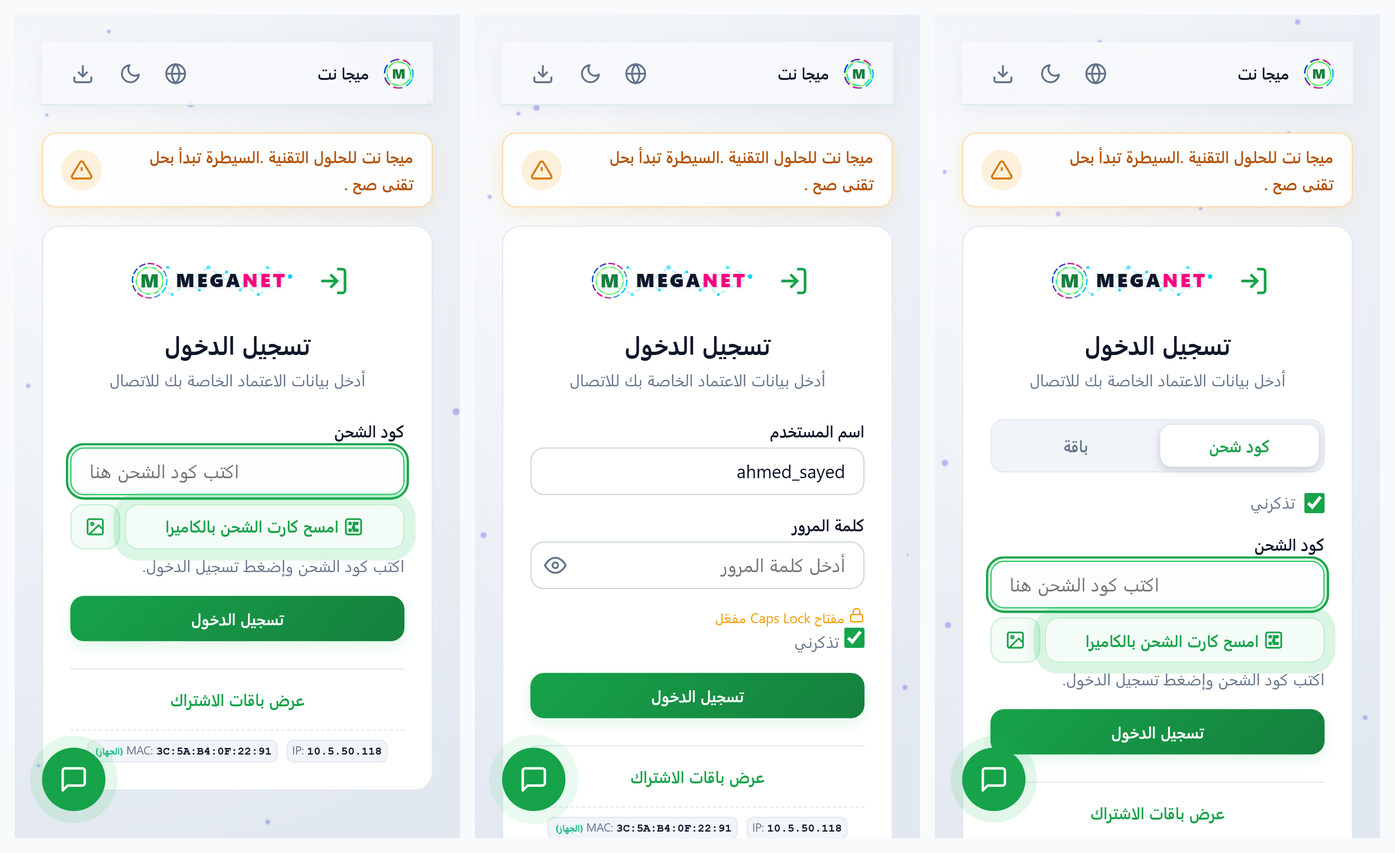
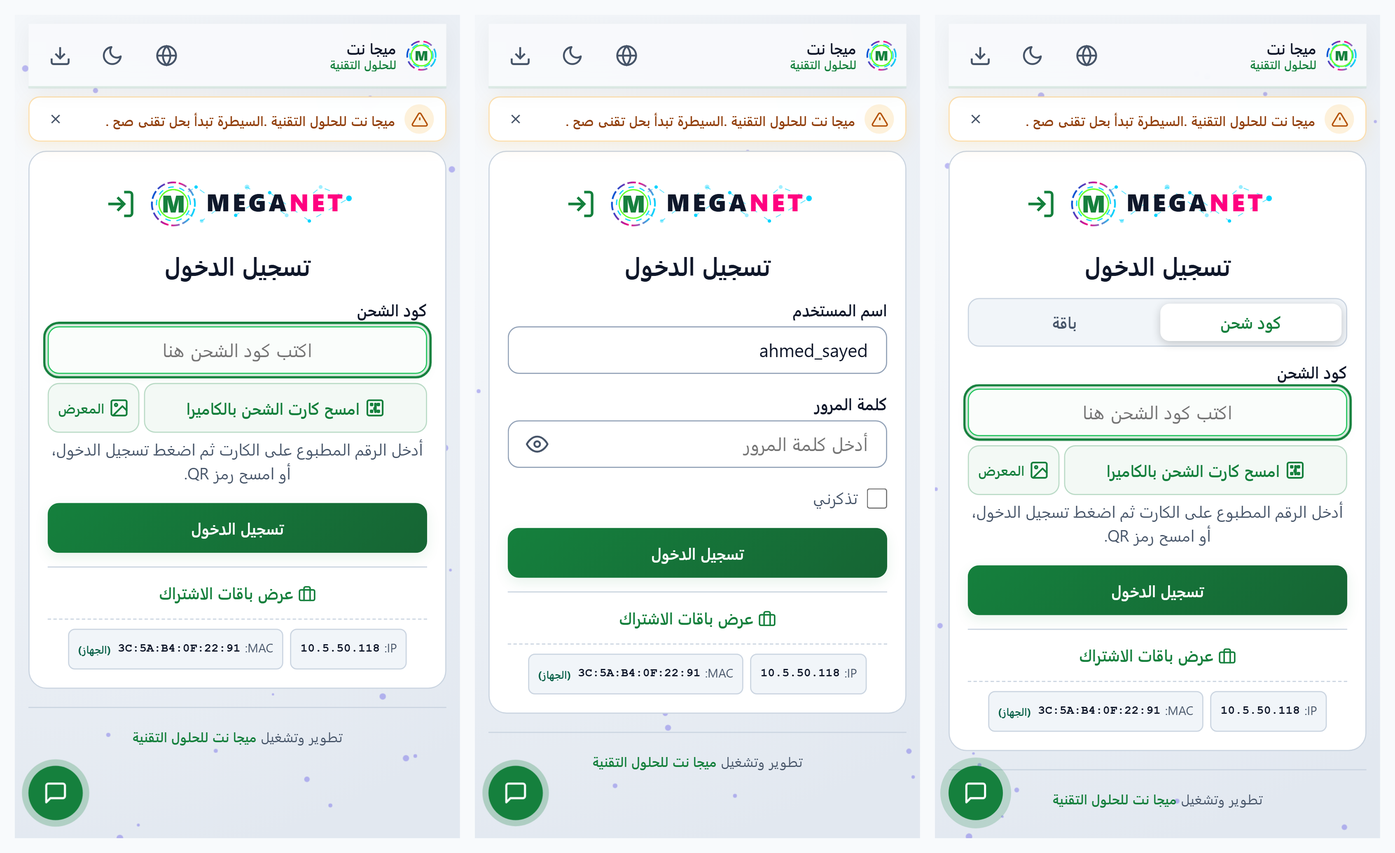
docs: refresh v2.8.0 README, architecture, changelog, description, and portal/studio screenshots

diff --git a/README.md b/README.md
@@ -22,30 +22,31 @@ A modern, lightweight captive portal template system designed for MikroTik route
   <img src="docs/screenshots/login-modes-light.png" width="820" alt="Login modes - Light" /><br/>
   <strong>Login modes: voucher &middot; normal &middot; both — Light</strong>
 </p>
+<p align="center">
+  <img src="docs/screenshots/studio.png" width="820" alt="Meganet Hotspot Studio with Live Mobile Simulator" /><br/>
+  <strong>Meganet Hotspot Studio — Split-screen Live Simulator, RouterOS v6 FTP / v7 Deploy & QR Tester</strong>
+</p>
 
-**Latest release: [v2.7.1](https://github.com/Mr-Muhamad/meganet-hotspot-portal/releases/latest)** — shared static portal bundles (`portal.css` & `portal-*.js`, cutting `dist/` weight by >50% to ~686 KB total), field-proven card scanning (jsQR), in-place credential login, live session expiry warnings with auto-logout, white-label color system + 12 place presets + client wording overrides, and **Meganet Hotspot Studio** (`.exe` / `npm run admin`) with live split-screen simulator (zoom `50%–150%`, resize handle, Dark/Light `hotspot_theme` switcher, `340px`/`412px`/`768px` device presets), SVG logo maker, QR login tester, RouterOS v7 `.rsc` / Option 114 generator, `/tool/fetch` direct deploy, and per-profile `mikrotik.json` persistence.
+**Latest release: [v2.8.0](https://github.com/Mr-Muhamad/Meganet-hotspot-portal/releases)** — separate numbered releases for **[Hotspot Portal (`portal-v2.8.0-build.*`)](https://github.com/Mr-Muhamad/Meganet-hotspot-portal/releases/tag/portal-v2.8.0-build.126)** (~696 KB router-ready `dist/` bundle) and **[Meganet Hotspot Studio (`studio-v2.8.0-build.*`)](https://github.com/Mr-Muhamad/Meganet-hotspot-portal/releases/tag/studio-v2.8.0-build.127)** (`.exe` / `npm run admin`). Features WebView-resilient **last-3-voucher history chips** (`Cookie` + `sessionStorage` + `localStorage` + `status.html` sync), **two-line `brandTagline`** mobile header & compact PWA install banner, **direct card switch** (`erase-cookie=on`), **sales outlets & plans WhatsApp** (`support.outlets`, `support.plansWhatsapp`), upgraded **QR scanner** (`BarcodeDetector` native center crop + `jsQR` multi-scale 1:1 tiles + percentile contrast-stretch fallback), 12 place presets, SVG Logo Maker, QR Login Tester, and direct **RouterOS v6 FTP** & **v7 REST/`/tool/fetch`** deployment.
 
 ---
 
 ## Features
 
-- **Modern minimalist UI** with dark/light themes — first visit shows the portal's configured default theme (`theme.defaultTheme`), applied pre-paint; a manual toggle is remembered
-- **Instant QR Code Login** — one tap opens the phone's native camera; the photo is decoded by the vendored **jsQR** (reads real camera photos of real cards) with the native `BarcodeDetector` fast path where available
+- **Modern minimalist UI** with dark/light themes, optional two-line `brandTagline`, and compact mobile PWA install banner — first visit shows `theme.defaultTheme` pre-paint; manual toggles persist for a year
+- **Recent 3 Voucher History Chips** — quick-tap chips below the voucher field remember the last 3 used cards across `Cookie` (30 d), `sessionStorage`, `localStorage`, and `status.html` (`$(username-esc)` sync), surviving Android CaptivePortalLogin WebView and iOS CNA
+- **Instant QR Code Login** — one tap opens the phone's native camera; decoded via native `BarcodeDetector` (with 1:1 center crop) or vendored **jsQR** (`1.4.0`, lazy-loaded) across multi-scale passes, native 1:1 corner/center tiles, and percentile contrast-stretch fallback for glare/low-light card photos (auto-retrying script loads on transient network failure)
 - **Both card types supported** — bare-code cards (`=CODE` / `CODE`) auto-log-in in place; mikhmon credential links (`?username=X&password=Y`) extract the credentials and submit them to the portal itself (immune to stale printed hostnames), with the carried password honored for `up`-mode cards
 - **Gallery / Screenshot QR Picker** — allows users to upload vouchers received via WhatsApp or image screenshots without needing camera streaming
-- **Paste Auto-Submit** — pasting a code submits instantly; typed codes submit via Connect/Enter (variable-length codes make typed auto-submit unsafe)
+- **Paste Auto-Submit & Direct Card Switch** — pasting a code submits instantly; `status.html`'s "Change Card" action logs out cleanly (`erase-cookie=on`) back to `login.html` without MAC-cookie loops
 - **Anti-Phishing & Safe QR Routing** — the portal never navigates to a foreign host because of a scanned payload; credential links are consumed in place and non-credential URLs are restricted to the portal itself
-- **3-Second `alogin.html` Redirect** — fast gateway handshake to the Internet (with manual Continue button)
-- **Full RouterOS v6 and v7 compatibility** — uses `$(var)` safe templates
-- **CHAP and PAP authentication** — with MD5 challenge-response support
+- **3-Second `alogin.html` Redirect** — fast gateway handshake to Status/Balance or external Internet target (with clean history replacement)
+- **Subscription Plans & Sales Outlets (`plans.html`)** — displays configured pricing tiers, nearest voucher sales outlets (`support.outlets`), and dedicated activation WhatsApp (`support.plansWhatsapp`)
+- **Full RouterOS v6 and v7 compatibility** — uses `$(var)` safe templates, CHAP MD5 (`md5.js`) / PAP, and zero external dependencies
 - **Arabic (RTL) and English (LTR) bilingual support** — with `dir="rtl"` and `lang="ar"`
-- **Mobile-first responsive design** — optimized for 360px+ viewports
-- **Captive portal browser compatible** — iOS CNA, macOS CNA (900×572), Android, Windows
-- **XSS-safe MikroTik variable handling** — all `$(var)` injected values are escaped
-- **~20–43 KB per HTML page** — shared same-host bundles (`portal.css`, `portal-core.js`, `portal-login.js`, `portal-status.js`) keep `dist/` around ~686 KB total with zero external dependencies and zero CDN calls
-- **WCAG AA accessible** — semantic HTML, proper contrast, focus indicators
-- **System font stack** — zero font downloads, instant rendering
-- **Inline SVG icons** — no icon font, no external requests
+- **Mobile-first & Captive-Portal compatible** — optimized for 340px+ phones, iOS CNA, macOS CNA (900×572), Android, Windows
+- **~18–48 KB per HTML page** — shared same-host bundles (`portal.css` ~53 KB, `portal-*.js` ~80 KB total) keep the 31-file `dist/` folder around ~696 KB total with zero external requests and zero CDN calls
+- **WCAG AA accessible & system font stack** — semantic HTML, inline SVG icons, live Studio WCAG contrast badge, and instant rendering
 
 ---
 
@@ -56,7 +57,7 @@ A modern, lightweight captive portal template system designed for MikroTik route
 The portal uses a **multi-page architecture** tailored for **iOS Captive Network Assistant (CNA)**, macOS CNA (~900×572px), Android, and Windows captive portal browsers — with **zero external requests** (no CDNs, no external fonts, no third-party scripts):
 
 - **Critical pre-paint inline layer (`base.html`)**: the pre-paint theme script (`hotspot_theme` cookie / `theme.defaultTheme`), config-derived CSS custom properties (`--color-*`, `--radius-*` from `scripts/color-utils.js`), inline SVG brand logo/title, and global handler stubs remain inline in every HTML page so first paint never flashes or breaks.
-- **Shared same-host static bundles**: static styles and JS modules are compiled once into `portal.css`, `portal-core.js`, `portal-login.js` (login page only), and `portal-status.js` (status page only), alongside vendored `md5.js` (CHAP) and lazy-loaded `jsQR.js` (omitted when `enableQRScanner: false`). Serving them from the router's own hotspot directory cuts `dist/` size by more than half (~686 KB total, ~20–43 KB per HTML page) while fitting comfortably inside MikroTik 1 MB flash budgets.
+- **Shared same-host static bundles**: static styles and JS modules are compiled once into `portal.css` (~53 KB), `portal-core.js`, `portal-login.js` (login page only), and `portal-status.js` (status page only — ~80 KB JS combined), alongside vendored `md5.js` (CHAP) and lazy-loaded `jsQR.js` (omitted when `enableQRScanner: false`). Serving them from the router's own hotspot directory keeps `dist/` at ~696 KB total (31 files, ~18–48 KB per HTML page), fitting comfortably inside MikroTik 1 MB flash budgets.
 
 ### Page Flow
 
@@ -124,18 +125,22 @@ Meganet-New-hotspot/
 
 ## Desktop App & Local Admin Generator
 
-### Standalone Executable (No Node.js Required)
-For network operators and technicians who want to customize and export portals without setting up developer tools:
-- Grab the standalone executable from [`dist-app/`](dist-app/) or the [Releases](https://github.com/Mr-Muhamad/meganet-hotspot-portal/releases) page:
-  - **Portable (`Meganet Hotspot Studio-Portable-2.7.1.exe`)**: Single-file executable, zero installation required, runs directly from USB.
-  - **Installer (`Meganet Hotspot Studio-Setup-2.7.1.exe`)**: NSIS installer with Desktop and Start Menu shortcuts.
-- Features: 12 built-in place presets + custom presets, live split-screen simulator (zoom `50%–150%`, drag resizer, expand toggle, Dark/Light `hotspot_theme` switcher, `340px`/`412px`/`768px` device presets), live WCAG 2.1 contrast badge, SVG Logo & Brand Identity Maker, Portal QR Login Tester, RouterOS v7 `.rsc` / Option 114 generator, direct `/tool/fetch` router deploy with per-profile `mikrotik.json` persistence (no passwords written to disk), batch build all, 1 MB flash meter, and one-click **Build & Download** ZIP export.
+### Standalone Releases (Portal & Studio — Separate Build-Numbered Packages)
+This repository ships two independent release streams with automatic build numbers:
+- **Hotspot Portal Package** ([`portal-v2.8.0-build.*`](https://github.com/Mr-Muhamad/Meganet-hotspot-portal/releases) / `dist-release/`):
+  - **`Meganet-Hotspot-Portal-v2.8.0-build.<N>.zip`**: Router-ready bundle (`dist/`), upload directly to MikroTik `/hotspot` via WinBox, FTP, or Studio.
+- **Meganet Hotspot Studio (Windows Desktop App — No Node.js Required)** ([`studio-v2.8.0-build.*`](https://github.com/Mr-Muhamad/Meganet-hotspot-portal/releases) / [`dist-app/`](dist-app/)):
+  - **Portable (`Meganet.Hotspot.Studio-Portable-2.8.0-build.<N>.exe`)**: Single-file executable, zero installation required, runs directly from USB.
+  - **Installer (`Meganet.Hotspot.Studio-Setup-2.8.0-build.<N>.exe`)**: NSIS installer with Desktop and Start Menu shortcuts.
+- Studio features: 12 built-in place presets + custom presets, live split-screen simulator (zoom `50%–150%`, drag resizer, expand toggle, Dark/Light `hotspot_theme` switcher, `340px`/`412px`/`768px` device presets), live WCAG 2.1 contrast badge, SVG Logo & Brand Identity Maker, Portal QR Login Tester, RouterOS v6/v7 `.rsc` & Option 114 generator, direct **RouterOS v6 FTP** & **v7 REST/`/tool/fetch`** router deploy with per-profile `mikrotik.json` persistence (no passwords written to disk), sales outlets & plans WhatsApp configuration, batch build all, 1 MB flash meter, and one-click **Build & Download** ZIP export.
 
 ### Developer Commands
 ```bash
-npm run app:dev       # Launch the Electron desktop app in development mode
-npm run app:build     # Build Windows portable and installer executables (.exe)
-npm run admin         # Run the loopback admin server and open in browser
+npm run app:dev             # Launch the Electron desktop app in development mode
+npm run app:build           # Build Windows portable and installer executables (.exe)
+npm run app:build:numbered  # Build numbered Studio installers (-build.<N>.exe)
+npm run portal:package      # Build dist/ and package dist-release/Meganet-Hotspot-Portal-v<ver>-build.<N>.zip
+npm run admin               # Run the loopback admin server and open in browser
 ```
 
 ---
@@ -332,12 +337,12 @@ The scan button is built for **minimum clicks** — it opens the phone's camera 
 
 | Card QR contains | What happens after scanning |
 |---|---|
-| A full URL (link card) | The browser goes straight to that URL, which is expected to end with `?voucher=<code>` (or carry `?username=&password=`) — the login page auto-fills and submits |
+| A full URL (link card) | Credentials (`?voucher=`, `?code=`, `?pin=`, `?username=` + optional `&password=`) are extracted and submitted IN PLACE to the current portal (never leaving for a foreign host) |
 | Just the code digits | The cancellable 3-second auto-login countdown starts with the scanned code — done |
 
 Two environments, two behaviors, both automatic:
 
-- **Any real browser (Chrome, Safari, in-app webviews)** — one tap on "امسح كارت الشحن بالكاميرا" fires a `capture="environment"` file input: the phone's **native camera app** opens immediately (that is not the browser's camera API, so it needs no permission and works on plain HTTP). Photograph the card → the photo is decoded in-page (vendored [jsQR](https://github.com/cozmo/jsQR), MIT, lazy-loaded — reads small QRs inside compressed camera photos that the previous engine could not) → the code fills and auto-logs-in. Decode failures surface as a toast; the user can re-shoot.
+- **Any real browser (Chrome, Safari, in-app webviews)** — one tap on "امسح كارت الشحن بالكاميرا" fires a `capture="environment"` file input: the phone's **native camera app** opens immediately (no `getUserMedia` permission needed, works on plain HTTP). Decoding uses native `BarcodeDetector` (with a 1:1 center crop on high-res photos) and falls back to vendored [jsQR](https://github.com/cozmo/jsQR) (`1.4.0`, MIT, lazy-loaded, auto-retrying if a download fails) across multi-scale frames, native 1:1 center/corner tiles, and percentile luminance contrast-stretch passes for glared or dim photos. Decode failures surface as a toast; the user can re-shoot.
 - **The system captive-portal WebView** (Android's "Sign in to network", where most phones land automatically) — file inputs and the camera are OS-blocked there (verified on-device: no chooser, no permission, nothing). The same tap therefore **jumps straight to the full browser** via an `intent://` URL: Android shows its own one-time "CONTINUE ANYWAY VIA BROWSER" confirmation, the default browser opens the same page (marked with a pulsing scan button), and the second tap opens the camera. Two taps total, both unavoidable: the first is the user's, the second is Android's security screen.
 
 **The absolute minimum-click flow needs no in-page scanning at all**: the phone's own **Camera app** recognizes the printed card's QR from the lock screen and opens the encoded URL — bypassing every portal-browser restriction on iOS and Android alike — and the portal auto-logs-in. This is why the link-card format below is worth printing.
@@ -475,10 +480,10 @@ The rate limiter is a UX guard only — real brute-force protection must be serv
 | Metric | Value |
 |---|---|
 | First Paint | < 1s on LAN |
-| Page Weight (`login.html` / `ar/login.html`) | ~35 KB / ~42 KB (HTML + inline tokens + i18n JSON) |
-| Page Weight (`status.html` / `ar/status.html`) | ~27 KB / ~34 KB |
-| Shared Bundles (`portal.css`, `portal-core.js`, `portal-login.js`, `portal-status.js`) | ~47 KB CSS · ~51 KB JS total (cached across pages) |
-| Total `dist/` Size | ~686 KB raw (incl. optional `jsQR.js` ~127 KB & assets) |
+| Page Weight (`login.html` / `ar/login.html`) | ~35 KB / ~48 KB (HTML + inline tokens + i18n JSON) |
+| Page Weight (`status.html` / `ar/status.html`) | ~30 KB / ~35 KB |
+| Shared Bundles (`portal.css`, `portal-core.js`, `portal-login.js`, `portal-status.js`) | ~53 KB CSS · ~80 KB JS total (cached across pages) |
+| Total `dist/` Size | ~696 KB raw across 31 files (incl. lazy-loaded `jsQR.js` ~127 KB & assets) |
 | External Dependencies | Zero runtime; 2 same-host vendored scripts (`md5.js` CHAP, `jsQR.js` lazy-loaded scan) |
 | Font Downloads | Zero (system font stack) |
 | Icon Requests | Zero (inline SVG) |
@@ -533,6 +538,7 @@ Nothing leaves the browser. All persistence is preferences and counters:
 |---|---|---|
 | cookie (365 d) | `hotspot_lang` | chosen language |
 | cookie (365 d) | `hotspot_theme` | chosen theme |
+| cookie (30 d) + `sessionStorage` + `localStorage` | `hotspot_voucher_history` | last 3 voucher chips (synced across WebView, `login.html`, and `status.html`) |
 | cookie (7 d) | `hotspot_dismissed_msg` | which announcement was dismissed |
 | `localStorage` | `hotspot_rate_attempts` | login-throttle counter |
 | `localStorage` | `hotspot_last_voucher` | last voucher, for auto-login (see caveat below) |
@@ -578,8 +584,8 @@ Nothing leaves the browser. All persistence is preferences and counters:
 **Symptom**: Fonts, images, or scripts from external domains don't load.
 
 **Fix**:
-1. The portal itself has zero external CSS/JS/font dependencies by design
-2. The QR scanner (`laksa19.github.io`) and WhatsApp support (`wa.me`) links are the exception — add them to the layer-3 walled garden as described in [Deployment step 4](#4-walled-garden--the-step-that-silently-breaks-features)
+1. The portal itself has zero external CSS/JS/font dependencies by design (the built-in `jsQR` scanner runs offline from the router itself)
+2. WhatsApp support (`wa.me`) and an optional external `features.qrScannerUrl` override are the exception — add them to the layer-3 walled garden as described in [Deployment step 4](#4-walled-garden--the-step-that-silently-breaks-features)
 3. For any custom external host you add: use `/ip hotspot walled-garden ip` (layer 3) for HTTPS destinations — the layer-7 `/ip hotspot walled-garden` only matches plain HTTP
 
 ### Variables Not Resolving
@@ -637,15 +643,18 @@ Potential integrations and features for extended deployments:
 ## Development
 
 ```
-npm install             # install build/test dependencies
-npm run build           # production build (minified) → dist/ (aborts on invalid config.json)
-npm run build:dev       # development build (no minification)
-npm run watch           # rebuild on src/ changes
-npm test                # Jest unit tests (incl. config schema + i18n health)
-npm run validate        # check dist/ completeness, MikroTik vars, a11y markers
-npm run validate:config # check config.json against its schema
-npm run preview         # serve dist/ with realistic demo data (see Local Preview)
-npm run admin           # local portal generator UI → http://127.0.0.1:8899
+npm install                # install build/test dependencies
+npm run build              # production build (minified) → dist/ (falls back to config.example.json if config.json absent)
+npm run build:dev          # development build (no minification)
+npm run watch              # rebuild on src/ changes
+npm run portal:package     # build dist/ and emit numbered Portal ZIP in dist-release/
+npm run app:build:numbered # build numbered Windows Studio executables in dist-app/
+npm test                   # Jest unit tests (incl. config schema + i18n health)
+npm run test:e2e           # Playwright E2E browser & Studio tests
+npm run validate           # check dist/ completeness, MikroTik vars, a11y markers
+npm run validate:config    # check config.json against its schema
+npm run preview            # serve dist/ with realistic demo data (see Local Preview)
+npm run admin              # local portal generator UI → http://127.0.0.1:8899
 ```
 
 ## Portal Generator (admin)
@@ -656,10 +665,10 @@ non-loopback connection (also enforcing a loopback `Host` header against DNS reb
 
 - **Profiles**: each client (café, hotel, clinic, …) is an isolated profile;
   profiles can be created, duplicated, renamed, deleted, filtered by search, batch-built (`Build All`), and exported/imported as JSON bundles (including non-secret `mikrotik` router settings, strictly excluding `password`)
-- **Tabs**: General · Theme (12 presets, custom presets, colors, radius, live WCAG 2.1 contrast badge) ·
-  Features · Plans · Support · Announcements · Words & RADIUS Errors · QR Login Tester (`مختبر QR الدخول`) ·
+- **Tabs**: General (incl. `brandTagline`) · Theme (12 presets, custom presets, colors, radius, live WCAG 2.1 contrast badge) ·
+  Features · Plans · Support (incl. `plansWhatsapp` & sales `outlets`) · Announcements · Words & RADIUS Errors · QR Login Tester (`مختبر QR الدخول`) ·
   Assets & SVG Logo Maker (`logo.svg` + `prand-title.svg` + `icon.png`, `<canvas>` auto-crop/compress, SVGO XSS sanitization) ·
-  MikroTik (`.rsc` generator with Option 114 & Walled Garden, dry-run preview, REST API + `/tool/fetch` one-click router deploy, TOFU TLS fingerprint pinning, per-profile `mikrotik.json` persistence without passwords)
+  MikroTik (v6 FTP + v7 `.rsc` / Option 114 & Walled Garden, dry-run preview, REST API + `/tool/fetch` one-click router deploy, TOFU TLS fingerprint pinning, per-profile `mikrotik.json` persistence without passwords)
 - **Live Split-Screen Simulator**: real-time preview with page selector, scenario switcher (`normal`/`error`/`trial`/`chap`), language toggle (`hotspot_lang`), Dark/Light theme switcher (`hotspot_theme` cookie), device viewport presets (`340px` narrow mobile, `412px` wide mobile, `768px` tablet), zoom (`50%–150%`), drag resizer handle, and expand toggle (`⛶`)
 - **Validation & Flash Meter**: every save runs the real config schema; invalid values are
   shown inline and never persisted; builds display ZIP/raw size and 1 MB router flash budget usage

diff --git a/README.ar.md b/README.ar.md
@@ -22,23 +22,26 @@
   <img src="docs/screenshots/login-modes-light.png" width="820" alt="أوضاع تسجيل الدخول - مضيء" /><br/>
   <strong>أوضاع تسجيل الدخول: كود شحن &middot; باقة &middot; مزدوج — مضيء</strong>
 </p>
+<p align="center">
+  <img src="docs/screenshots/studio.png" width="820" alt="Meganet Hotspot Studio مع المحاكي المباشر" /><br/>
+  <strong>Meganet Hotspot Studio — المحاكي المباشر، نشر مايكروتك v6 FTP و v7، ومختبر QR الدخول</strong>
+</p>
 
-**أحدث إصدار: [v2.7.1](https://github.com/Mr-Muhamad/meganet-hotspot-portal/releases/latest)** — حزم مشتركة خفيفة (`portal.css` و `portal-*.js` لتقليص حجم `dist/` بأكثر من النصف إلى ~686 كيلوبايت)، مسح كروت مثبت ميدانيًا (`jsQR`)، دخول موضعي لروابط البيانات، تحذير مبكر بانتهاء الجلسة مع خروج تلقائي، نظام white-label كامل (12 شخصية + تخصيص الكلمات)، **وبرنامج Meganet Hotspot Studio (`.exe` / `npm run admin`)** المزوّد بالمحاكي المباشر (تكبير/تصغير `50%–150%`، مقبض سحب، تبديل الثيم داكن/نهاري عبر `hotspot_theme`، ومقاسات شاشات `340px` / `412px` / `768px`)، ومولّد الشعارات SVG، ومختبر QR الدخول، ومولّد سكربت `.rsc` (Option 114)، والرفع المباشر للراوتر عبر `/tool/fetch` مع حفظ إعدادات الراوتر لكل بروفايل (`mikrotik.json`).
+**أحدث إصدار: [v2.8.0](https://github.com/Mr-Muhamad/Meganet-hotspot-portal/releases)** — إصداران منفصلان برقم البناء: **[حزمة البوابة (`portal-v2.8.0-build.*`)](https://github.com/Mr-Muhamad/Meganet-hotspot-portal/releases/tag/portal-v2.8.0-build.126)** (حجم `dist/` ~696 كيلوبايت جاهزة للرفع على الراوتر) و **[تطبيق الاستوديو (`studio-v2.8.0-build.*`)](https://github.com/Mr-Muhamad/Meganet-hotspot-portal/releases/tag/studio-v2.8.0-build.127)** (`.exe` / `npm run admin`). يتميز بسجل **آخر 3 كروت** المقاوم لـ WebView (مُزامَن عبر Cookie و `sessionStorage` و `localStorage` وصفحة الحالة)، ووصف البراند بسطرين في الهيدر مع شريط تثبيت PWA مضغوط للموبايل، وتغيير الكارت المباشر (`erase-cookie=on`)، ونقاط بيع الكروت وواتساب الباقات المستقل (`outlets` و `plansWhatsapp`)، ومنظومة مسح QR مطوّرة (`BarcodeDetector` بالقص المركزي + `jsQR` بتمريرة تحسين التباين وإعادة المحاولة التلقائية)، و12 شخصية جاهزة، ومولّد الشعارات SVG، والرفع المباشر لمايكروتك (**RouterOS v6 FTP** و **v7 REST/`/tool/fetch`**).
 
 ---
 
 ## 🌟 أبرز المميزات
 
-- **دخول فوري بمسح رمز الاستجابة السريعة:** نقرة واحدة تفتح كاميرا الهاتف الأصلية، وتُفك الصورة عبر مكتبة **jsQR** المدمجة (تقرأ صور الكاميرا الحقيقية للكروت الفعلية) مع مسار `BarcodeDetector` السريع حيثما توفر.
+- **سجل آخر 3 كروت متوافق مع WebView:** أزرار سريعة لآخر 3 كروت أسفل خانة الكود، محفوظة عبر `Cookie` (30 يوماً) و `sessionStorage` و `localStorage` مع المزامنة في `status.html` لتعمل بسلاسة داخل Android CaptivePortalLogin WebView و iOS CNA والمتصفحات العادية.
+- **دخول فوري بمسح رمز الاستجابة السريعة (QR):** نقرة واحدة تفتح كاميرا الهاتف الأصلية بدون صلاحيات HTTPS؛ وتُفك الصورة بمسار `BarcodeDetector` الأصلي (مع قص مركزي 1:1 للصور الكبيرة) يليه محرك **jsQR** (`1.4.0`) متعدد المقاييس ومربعات 1:1، مع تمريرة أخيرة لتحسين التباين (`_enhanceContrast`) للصور الباهتة أو ذات الانعكاس، وإعادة تحميل تلقائية للمحرك عند تعثر الشبكة.
 - **دعم نوعي الكروت معًا:** كروت الكود العاري (`=CODE` / `CODE`) تدخل تلقائيًا في مكانها، وكروت روابط mikhmon (`?username=X&password=Y`) تُستخرج بياناتها وتُرسل لبوابتنا مباشرة (محصّنة ضد اسم الدومين المطبوع القديم) مع احترام كلمة المرور الحاملة في كروت `up`.
 - **اختيار صورة الكارت من المعرض (Gallery & Screenshots):** إمكانية رفع صورة الكارت أو لقطة الشاشة المستلمة عبر الواتساب في حال تعذر فتح الكاميرا.
-- **لصق فوري للكود:** لصق الكود يرسل النموذج مباشرة؛ الكود المكتوب يدويًا يُرسل بزر الدخول أو Enter (الطول المتغير للأكواد يجعل الإرسال التلقائي للكتابة غير آمن).
+- **تبديل الكارت وتجربة `alogin.html`:** زر تغيير الكارت في صفحة الحالة يسجّل الخروج مع مسح الكوكي (`erase-cookie=on`) ليعود مباشرة إلى صفحة الدخول، وتعرض `alogin.html` زري الرصيد والحالة والمتابعة للإنترنت بشكل واضح.
+- **صفحة الباقات ونقاط البيع (`plans.html`):** عرض الباقات والأسعار مع **نقاط بيع الكروت** (`support.outlets`) ورابط واتساب مستقل لطلبات التفعيل (`support.plansWhatsapp`).
 - **حماية متقدمة ضد التصيد (Anti-Phishing & Safe QR Routing):** البوابة لا تغادر أبدًا بسبب حمولة ممسوحة — الروابط الحاملة لبيانات الدخول تُستهلك في مكانها، وغير الحاملة تُقصر على البوابة نفسها.
-- **تحويل سريع خلال 3 ثوانٍ (`alogin.html`):** إتمام المصافحة مع الراوتر وتوجيه المستخدم للإنترنت بسرعة مع زر متابعة فورية.
-- **دعم ثنائي اللغة كامل:** واجهة عربية أصيلة تدعم اتجاه اليمين لليسار (RTL)، مع إمكانية التبديل للغة الإنجليزية بنقرة واحدة.
-- **توافق تام مع RouterOS v6 و v7:** استخدام آمن تماماً لمتغيرات مايكروتك `$(var)` مع حماية ضد هجمات الحقن XSS.
-- **دعم طرق المصادقة:** يدعم تسجيل الدخول عبر الكروت (Voucher)، اسم المستخدم وكلمة المرور (PAP / CHAP مع تشفير MD5)، والماك أدرس.
-- **بدون أي اعتمادات خارجية (Zero External Dependencies):** حجم كل صفحة HTML يتراوح بين ~20–43 كيلوبايت مع حزم مشتركة مستضافة محلياً على الراوتر (`portal.css`، `portal-core.js`، `portal-login.js`، `portal-status.js`) ليظل إجمالي `dist/` ~686 كيلوبايت ومناسباً لذاكرة الفلاش 1 ميجابايت بدون أي طلبات خارجية للخطوط أو الأيقونات أو الـ CDN.
+- **دعم ثنائي اللغة كامل وتخصيص البراند:** واجهة عربية (RTL) وإنجليزية (LTR) مع سطر وصف اختياري تحت اسم الشبكة (`brandTagline`) وتوافق تام مع **RouterOS v6 و v7** (`CHAP` / `PAP`).
+- **بدون أي اعتمادات خارجية (Zero External Dependencies):** حجم صفحات HTML يتراوح بين ~18–48 كيلوبايت مع حزم مشتركة مستضافة محلياً (`portal.css` ~53 كيلوبايت و `portal-*.js` ~80 كيلوبايت) ليظل إجمالي `dist/` ~696 كيلوبايت (31 ملفاً) ومناسباً لذاكرة الفلاش 1 ميجابايت.
 - **مساعد الاستهلاك الذكي:** عرض مباشر ودقيق للرصيد المتبقي والوقت والتحميل والرفع وسرعة الاتصال في صفحة الحالة (`status.html`).
 
 ---
@@ -70,19 +73,19 @@ Meganet-New-hotspot/
 
 ### الطريقة الأولى: استخدام البرنامج التنفيذي المستقل (Meganet Hotspot Studio - الموصى بها)
 لا تتطلب هذه الطريقة أي معرفة برمجية أو تثبيت Node.js:
-1. توجه لمجلد `dist-app/` أو صفحة [الإصدارات الرسمية (Releases)](https://github.com/Mr-Muhamad/meganet-hotspot-portal/releases).
-2. قم بتحميل وتشغيل **النسخة المحمولة** مباشرة بنقرة واحدة:
-   - `Meganet Hotspot Studio-Portable-2.7.1.exe` (لا تحتاج تثبيت، يمكنك وضعها على فلاشة USB).
-   - أو `Meganet Hotspot Studio-Setup-2.7.1.exe` (برنامج تثبيت رسمي ينشئ اختصارات على سطح المكتب وقائمة Start).
-3. افتح البرنامج واستفد من أدوات **v2.7.1**:
+1. توجه لمجلد `dist-app/` أو صفحة [الإصدارات الرسمية للاستوديو (`studio-v2.8.0-build.*`)](https://github.com/Mr-Muhamad/Meganet-hotspot-portal/releases).
+2. قم بتحميل وتشغيل **النسخة المحمولة** أو المثبت برقم البناء:
+   - `Meganet.Hotspot.Studio-Portable-2.8.0-build.<N>.exe` (لا تحتاج تثبيت، يمكنك وضعها على فلاشة USB).
+   - أو `Meganet.Hotspot.Studio-Setup-2.8.0-build.<N>.exe` (برنامج تثبيت رسمي ينشئ اختصارات على سطح المكتب وقائمة Start).
+3. افتح البرنامج واستفد من أدوات **v2.8.0**:
    - **المحاكي المباشر المدمج:** تكبير/تصغير (`50%–150%`)، مقبض سحب لتغيير العرض، زر توسيع (`⛶`)، مبدّل ثيم داكن/نهاري (يتزامن مع كوكي `hotspot_theme`)، ومقاسات شاشات جاهزة (`340px` موبايل ضيق، `412px` موبايل عريض، `768px` تابلت).
-   - **تخصيص الهوية والألوان:** 12 شخصية جاهزة + شخصيات مخصصة، فحص تباين WCAG 2.1 فوري، ومولّد الشعارات الذكي (`logo.svg` و `prand-title.svg` و `icon.png`)، ومختبر QR الدخول.
-   - **تكامل مايكروتك المباشر:** مولّد سكربت `hotspot-setup.rsc` (مع DHCP Option 114 وقواعد Walled Garden)، ورفع مباشر لملفات البوابة والصور بالراوتر عبر REST API و `/tool/fetch` مع حفظ إعدادات كل راوتر في `mikrotik.json` (بدون حفظ كلمة المرور على القرص، وتضمين الإعدادات غير السرية عند تصدير/استيراد البروفايل).
+   - **تخصيص الهوية والألوان والباقات:** 12 شخصية جاهزة + شخصيات مخصصة، وصف البراند بسطرين (`brandTagline`)، فحص تباين WCAG 2.1 فوري، مولّد الشعارات الذكي (`logo.svg` و `prand-title.svg` و `icon.png`)، نقاط بيع الكروت (`outlets`) وواتساب الباقات (`plansWhatsapp`)، ومختبر QR الدخول.
+   - **تكامل مايكروتك المباشر (v6 و v7):** رفع مباشر لملفات البوابة والصور عبر **FTP لـ RouterOS v6** و **REST API / `/tool/fetch` لـ RouterOS v7**، مع مولّد سكربت `hotspot-setup.rsc` (DHCP Option 114 وقواعد Walled Garden) وحفظ إعدادات كل راوتر في `mikrotik.json` بدون حفظ كلمة المرور على القرص.
    - اضغط **بناء وتحميل zip** للحصول على الحزمة الجاهزة ومراقبة مقياس ذاكرة الفلاش (1 MB).
 
-### الطريقة الثانية: استخدام الحزمة الجاهزة مباشرة للراوتر
-1. توجه إلى صفحة [الإصدارات الرسمية (Releases)](https://github.com/Mr-Muhamad/meganet-hotspot-portal/releases).
-2. قم بتحميل الملف المضغوط `meganet-hotspot-dist-v2.7.1.zip` (أو بناء مجلد `dist/`).
+### الطريقة الثانية: استخدام حزمة البوابة الجاهزة مباشرة للراوتر
+1. توجه إلى صفحة [إصدار البوابة المستقل (`portal-v2.8.0-build.*`)](https://github.com/Mr-Muhamad/Meganet-hotspot-portal/releases).
+2. قم بتحميل الملف المضغوط `Meganet-Hotspot-Portal-v2.8.0-build.<N>.zip` (أو توليدها محلياً عبر `npm run portal:package`).
 3. فك الضغط عن الملف، وارفع محتوياته بالكامل (بما فيها `portal.css` و `portal-*.js` ومجلد `ar/`) إلى مجلد البوابة داخل راوتر مايكروتك عن طريق **FTP** أو **WinBox** (`Files`) أو ميزة الرفع المباشر من Studio.
 
 ### الطريقة الثالثة: التخصيص والبناء الذاتي للمطورين عبر سطر الأوامر
@@ -90,20 +93,22 @@ Meganet-New-hotspot/
 
 ```bash
 # 1. استنساخ المستودع
-git clone https://github.com/Mr-Muhamad/meganet-hotspot-portal.git
-cd meganet-hotspot-portal
+git clone https://github.com/Mr-Muhamad/Meganet-hotspot-portal.git
+cd Meganet-hotspot-portal
 
 # 2. تثبيت الحزم
 npm install
 
 # 3. تشغيل لوحة التحكم ومولد القوالب المكتبي
-npm run app:dev       # تشغيل نافذة التطبيق المكتبي
-npm run admin         # أو تشغيل خادم الإدارة المحلي وفتحه في المتصفح
+npm run app:dev             # تشغيل نافذة التطبيق المكتبي
+npm run admin               # أو تشغيل خادم الإدارة المحلي وفتحه في المتصفح
 
-# 4. إعادة بناء البرنامج التنفيذي المستقل (.exe)
-npm run app:build
+# 4. إعادة بناء حزم البوابة والاستوديو مع رقم البناء
+npm run portal:package      # توليد أرشيف البوابة في dist-release/
+npm run app:build:numbered  # بناء نسختي الويندوز للاستوديو في dist-app/
+npm run app:build           # بناء قياسي بدون رقم بناء
 
-# 5. بناء وتوليد قالب الراوتر يدوياً
+# 5. بناء وتوليد قالب الراوتر يدوياً (يرجع إلى config.example.json عند غياب config.json)
 npm run build
 
 # 6. تجربة البوابة محلياً على المتصفح مع محاكاة راوتروس
@@ -116,15 +121,16 @@ npm run preview
 
 يمكنك تعديل وتخصيص كل تفاصيل البوابة بدون لمس كود HTML/CSS من خلال ملف `config.json`:
 
-- **بيانات الشبكة (`general`):** اسم الشبكة، اسم ورابط مطور الشبكة بالفوتر.
-- **التصميم والألوان (`theme`):** اللون الأساسي (`primaryColor`)، لون الخلفية، استدارة الحواف، تفعيل خلفية الشبكة المتحركة.
+- **بيانات الشبكة (`general`):** اسم الشبكة، وصف البراند (`brandTagline` / `brandTagline_ar` على سطر ثانٍ في الهيدر)، واسم ورابط مطور الشبكة بالفوتر.
+- **التصميم والألوان (`theme`):** الشخصية (`preset` من بين 12 قالباً جاهزاً أو مخصص)، الثيم الافتراضي (`defaultTheme`)، اللون الأساسي (`primaryColor`)، لون الخلفية، استدارة الحواف، تفعيل خلفية الشبكة المتحركة.
 - **الميزات والوظائف (`features`):**
   - `loginMode`: `voucher_only` (كروت فقط)، أو `normal_only` (يوزر وباسورد)، أو `both`.
+  - `voucherFormat`: صيغة الكود (`numeric` أرقام فقط أو `alphanumeric` حروف وأرقام).
   - `enableQRScanner`: تفعيل أو تعطيل زر مسح الكاميرا للـ QR.
   - `voucherMinLength`: الحد الأدنى لطول كود الشحن (مثلاً 4 خانات) لرفض الأكواد القصيرة قبل الإرسال إلى الراوتر.
   - `enableSmartAssistant`: تفعيل حاسبة ومساعد الاستهلاك بصفحة الحالة.
 - **الباقات والأسعار (`plans`):** إضافة أسعار وسعات الكروت لعرضها للمشتركين بصفحة الباقات.
-- **فريق الدعم الفني (`support`):** أرقام الهواتف وحسابات الواتساب لتواصل المشتركين مع الدعم بنقرة واحدة.
+- **فريق الدعم الفني ونقاط البيع (`support`):** أرقام الهواتف والواتساب، **ونقاط بيع الكروت (`outlets`)**، وواتساب مخصص لتفعيل الباقات (`plansWhatsapp`).
 
 ---
 

diff --git a/ARCHITECTURE.md b/ARCHITECTURE.md
@@ -110,21 +110,27 @@ src/i18n/
 - Manual language switching
 - RTL/LTR layout switching
 
-### 5. Build Layer
+### 5. Build & Release Layer
 
 ```
-build.js               # Main build script
+build.js               # Main build script (falls back to config.example.json if config.json absent)
 scripts/
-└── validate-templates.js  # Template validation
+├── color-utils.js     # Build-time HSL alpha & contrast-safe CSS token derivation
+├── presets.js         # 12 place personalities + custom preset resolution
+├── svg-utils.js       # SVGO sanitization for brand assets
+├── validate-config.js # Strict config.json schema & key validation
+├── validate-templates.js # RouterOS variable & output completeness validation
+├── package-portal.js  # Versioned + build-numbered Portal ZIP packager (dist-release/)
+└── build-studio.js    # Versioned + build-numbered Windows Studio packager (dist-app/)
 ```
 
-**Purpose**: Generate production-ready HTML files.
+**Purpose**: Generate production-ready HTML files, verify invariants, and emit separate versioned/numbered artifacts for the Portal and Desktop Studio.
 
 **Key Features**:
 - Nunjucks template compilation
-- CSS/JS bundling and minification
-- i18n file generation
-- Asset copying
+- CSS/JS bundling (`portal.css`, `portal-core.js`, `portal-login.js`, `portal-status.js`) and minification
+- Dual-language (EN/AR) page generation + i18n dictionary merging
+- Automated Portal ZIP & Windows Studio EXE packaging with build numbers
 
 ### 6. Desktop & Generator Layer
 
@@ -134,11 +140,19 @@ desktop/
 admin/
 ├── server.js          # Local REST API server (profile CRUD, temporary workspace orchestration)
 ├── lib/
-│   ├── profile-store.js  # Profile storage and persistence
-│   └── workspace.js      # Isolated build workspace apply/restore pipeline
+│   ├── profile-store.js  # Profile storage and per-profile mikrotik.json persistence
+│   ├── workspace.js      # Isolated build workspace apply/restore pipeline
+│   ├── mikrotik.js       # RouterOS v6 FTP & v7 REST/fetch deploy + .rsc / Option 114 generator
+│   ├── qr-generator.js   # Standalone ISO/IEC 18004 QR login tester generator
+│   ├── logo-maker.js     # SVG brand logo/title/icon generator
+│   └── zip-builder.js    # Clean RouterOS bundle ZIP export
 └── public/
-    └── index.html     # Studio client web UI
+    └── index.html     # Studio client web UI with live split-screen mobile simulator
 electron-builder.yml   # Windows packaging configuration (portable & installer)
+.github/workflows/
+├── ci.yml             # Lint, build, validate, Jest & Playwright E2E
+├── release-portal.yml # Dedicated Portal GitHub Release with build number
+└── release-studio.yml # Dedicated Studio GitHub Release with build number
 ```
 
 **Purpose**: Provide an interactive studio to customize, manage, and build multiple client profiles into router-ready ZIP files either via desktop GUI (.exe) or local web server.
@@ -282,7 +296,7 @@ if (typeof module !== 'undefined' && module.exports) {
 
 ### Page Weight
 
-- Average page size: ~90–140KB (all CSS/JS inline; login/status carry the full i18n dictionary. `jsQR.js` ships separately, ~130KB, and loads lazily only when scanning)
+- HTML page size: ~18–48 KB per page (`login.html` ~35 KB / `ar/login.html` ~48 KB; shared styles and JS live in `portal.css` ~53 KB and `portal-core.js` / `portal-login.js` / `portal-status.js` ~80 KB total; `dist/` totals ~696 KB across 31 files including `jsQR.js` ~127 KB which lazy-loads only when scanning)
 - No external requests
 - System fonts only
 - Inline SVG icons

diff --git a/CHANGELOG.md b/CHANGELOG.md
@@ -7,6 +7,25 @@ and this project adheres to [Semantic Versioning](https://semver.org/spec/v2.0.0
 
 ## [Unreleased]
 
+## [2.8.0] - 2026-11-16
+
+### Added
+- **Local Card History (Last 3 Vouchers)**: `hotspot_voucher_history` displays quick-tap chips of the last 3 used voucher codes below `#voucher` on `login.html`; persisted across `Cookie` (30 days, `SameSite=Lax`), `sessionStorage`, `localStorage`, and `status.html` (`$(username-esc)` sync) so history survives Android CaptivePortalLogin WebView and iOS CNA transitions.
+- **RouterOS v6 FTP Deployment & v7 REST/Fetch**: Studio (`admin/lib/mikrotik.js`) supports direct FTP upload for RouterOS v6 alongside REST + `/tool/fetch` deploy for RouterOS v7.
+- **Sales Outlets & Plans WhatsApp**: `support.outlets` (`[{ name, name_ar, address, address_ar, phone }]`) renders printable/browsable card sales points on `plans.html`, and `support.plansWhatsapp` routes plan activation requests to a dedicated WhatsApp number.
+- **Brand Tagline & Compact Mobile Header**: optional `general.brandTagline` / `brandTagline_ar` renders cleanly on a second line in the header, paired with a compact single-card mobile PWA install banner (`status.html`).
+- **Separate Numbered Release Pipelines**:
+  - `scripts/package-portal.js` (`npm run portal:package`) & `.github/workflows/release-portal.yml` — builds and packages `Meganet-Hotspot-Portal-v<version>-build.<N>.zip` as a dedicated Portal release.
+  - `scripts/build-studio.js` (`npm run app:build:numbered`) & `.github/workflows/release-studio.yml` — builds Windows Setup & Portable installers with explicit build numbers and `--publish never` for GitHub Releases.
+
+### Improved & Fixed
+- **QR Scanner Pipeline (`src/js/modules/qr-scanner.js`)**:
+  - Added percentile luminance contrast-stretch (`_enhanceContrast`) as last-resort decoding passes for dim, glared, or washed-out voucher card photos after plain native/jsQR passes miss.
+  - Cleans up failed `<script id="jsqr-script">` tags on `onerror` so subsequent scans retry loading `jsQR.js` cleanly instead of timing out.
+- **Direct Card Switch & `alogin.html` Flow**: `switchCard` logs out via `$(link-logout)?erase-cookie=on` to return directly to `login.html`; `alogin.html` provides distinct Status/Balance and external Internet/Google actions with clean history replacement.
+- **Concise Arabic RADIUS Errors**: streamlined `radiusErrorTranslations` and unified client utilities (`util.setCookie`/`getCookie`).
+- **Zero-Config CI & Fresh Clones**: `build.js` falls back cleanly to `config.example.json` when `config.json` is absent, and `.github/workflows/ci.yml` seeds `config.json` from `config.example.json` before lint/build/test.
+
 ## [2.7.1] - 2026-11-12
 
 ### Added
